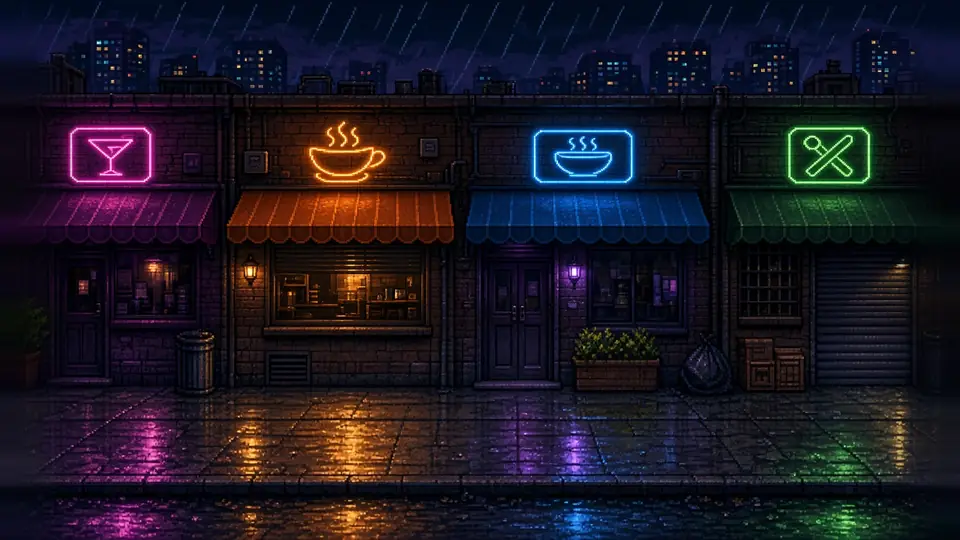
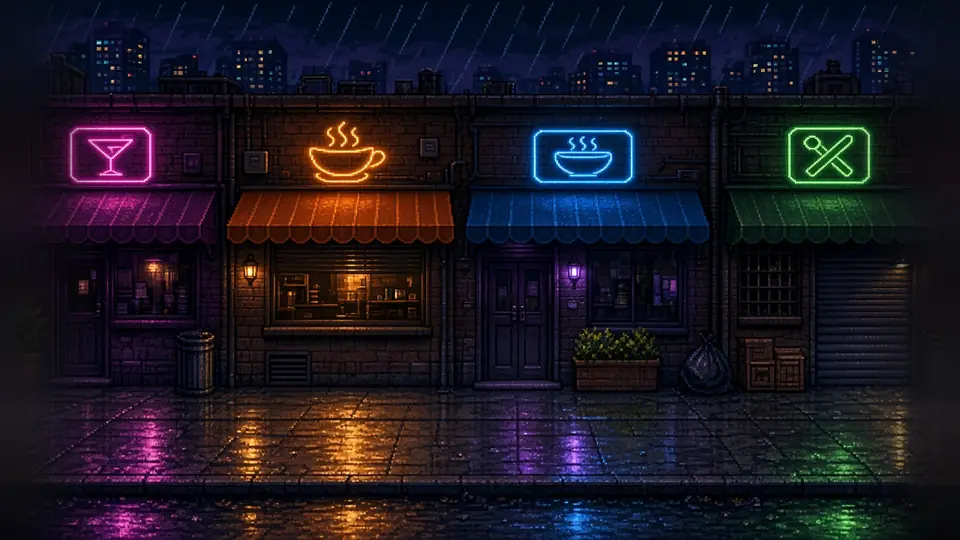
Soften plate-edge haze: tone-match to stage plate row colours, wider blur, lighter haze alpha (no dark smudge)

diff --git a/js/bg.js b/js/bg.js
@@ -34,7 +34,7 @@ function plate(ctx, im, kind, cam) {
 /** Haze strip that the neighbouring (old) plate fades into just outside an AI plate's edge: the plate's own per-row edge colour,
  * alpha ramping 0 -> HAZE_A towards the edge. The plate itself ramps out of the same colour (baked in), so a slide goes
  * old plate -> haze -> new plate with no two scenes overlapping (no ghosting). */
-const HZ = 30, HAZE_A = 0.94, hazeCache = {};
+const HZ = 30, HAZE_A = 0.85, hazeCache = {};
 function hazeStrip(kind, name, side) {
   const key = kind + name + side; if (hazeCache[key]) return hazeCache[key];
   const rows = A.bgMeta[kind].haze[name][side], n = rows.length, t = document.createElement('canvas'); t.width = 1; t.height = n;

diff --git a/tools/ai-art/build_bg.py b/tools/ai-art/build_bg.py
@@ -52,7 +52,7 @@ EXTRA = {
     'jungle-waterfall': ('jungle', 0.82),  'jungle-canopy':    ('jungle', 0.78),
 }
 FLOOR_LIFT = 10   # logic px the plate floor top sits above lane top
-ZONE = 90         # device px (30 logic px): the plate edge ramps out of a matching haze colour over this width
+ZONE = 120        # device px (30 logic px): the plate edge ramps out of a matching haze colour over this width
 HAZE_ROWS = 45    # per-row haze colour samples stored in bg.json (runtime fades the neighbouring plate into the same haze)
 # Mean floor luminance (0-255) each plate's walk band is lifted to, so heroes/enemies read against it (stage floors sit at ~25-110).
 FLOOR_LUM = {'zoo-lion': 66, 'zoo-reptile': 72, 'city-stores': 30, 'city-bridge': 34, 'fbi-server': 96, 'fbi-archive': 114,
@@ -79,10 +79,13 @@ for name, (stage, F) in EXTRA.items():
     a = np.concatenate([np.array(top), np.array(bot)], 0)
     a = lift_floor(a, lane_top * 3, min(H, lane_bot * 3 + 10), FLOOR_LUM[name])
     # per-row haze colour of each side (edge columns, vertically blurred), then ramp the plate edge out of it (tone-matched fade)
-    k = np.ones(15) / 15; hz = {}
+    KB = 81; k = np.ones(KB) / KB; hz = {}; meta_stage = stage
     for side, cols in (('l', a[:, :12]), ('r', a[:, -12:])):
-        c = cols.astype(np.float32).mean(1); c = np.stack([np.convolve(np.pad(c[:, j], 7, mode='edge'), k, 'valid') for j in range(3)], 1)
-        hz[side] = c
+        c = cols.astype(np.float32).mean(1); c = np.stack([np.convolve(np.pad(c[:, j], KB // 2, mode="edge"), k, 'valid') for j in range(3)], 1)
+        # tonal match: pull toward the stage's own plate row colours (what the neighbouring screens actually show), so no dark patch over sky
+        st = np.array(Image.open(f'{OUT}/{meta_stage}.webp').convert('RGB').resize((W, H)), dtype=np.float32).mean(1)
+        st = np.stack([np.convolve(np.pad(st[:, j], KB // 2, mode='edge'), k, 'valid') for j in range(3)], 1)
+        hz[side] = 0.3 * c + 0.7 * st
     t = np.clip(np.arange(W) / ZONE, 0, 1); t = np.minimum(t, t[::-1]); sm = (t * t * (3 - 2 * t))[None, :, None]
     left = hz['l'][:, None, :]; right = hz['r'][:, None, :]; sidew = (np.arange(W) < W / 2)[None, :, None]
     haze = np.where(sidew, left, right)
